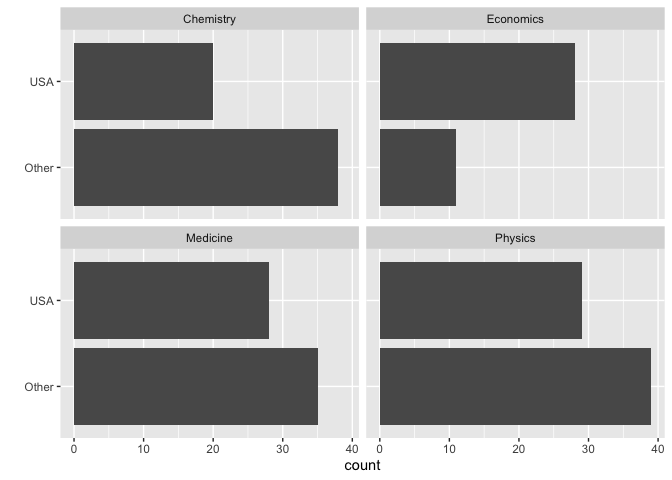
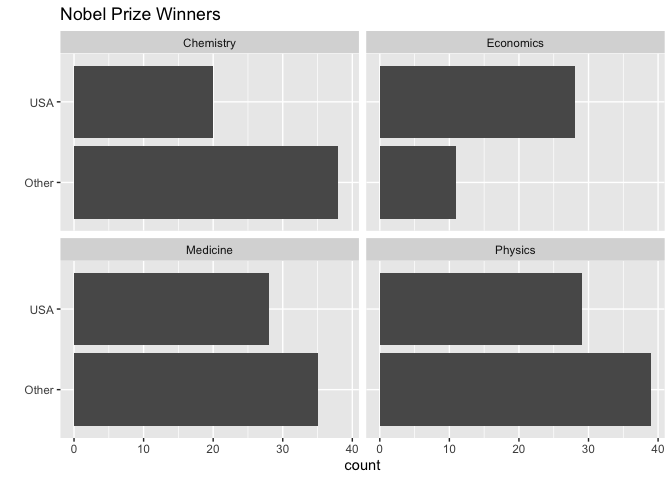
Lab 3 Complete

diff --git a/lab-03.md b/lab-03.md
@@ -48,6 +48,7 @@ nobel_living_science %>%
   ggplot(aes(y=country_us))+
   facet_wrap(~category)+
   geom_bar()+
+  labs(title = "Nobel Prize Winners")+
   ylab("")
 ```
 
@@ -81,6 +82,7 @@ It appears 105 of the nobel laureates were born in the US
 nobel_living_science %>% 
   ggplot(aes(y=born_country_us))+
   facet_wrap(~category)+
+  labs(title = "Nobel Prize Winners") +
   geom_bar()+
   ylab("")
 ```
